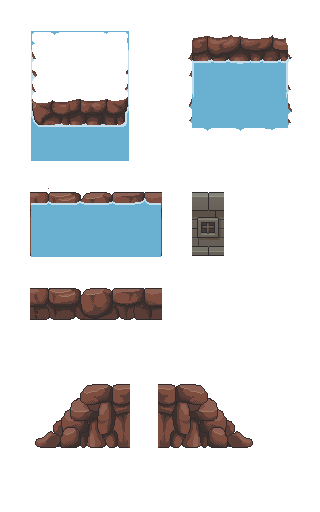
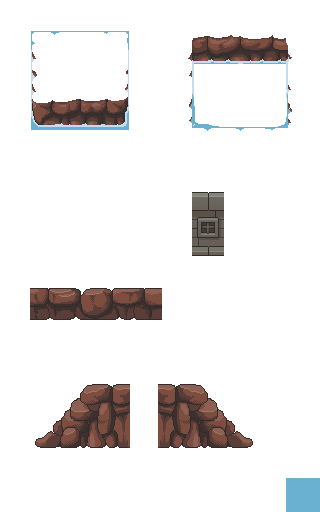
Adiciona reflexo no rio da cidade

diff --git a/lib/maps/main_village/main_village.dart b/lib/maps/main_village/main_village.dart
@@ -8,7 +8,8 @@ import 'package:projeto_gbb_demo/game/objects/daytime_clock.dart';
 import 'package:projeto_gbb_demo/game/objects/plants/tree.dart';
 import 'package:projeto_gbb_demo/game/structs/change_map_transition.dart';
 import 'package:projeto_gbb_demo/maps/main_village/main_village_objects/waterfall.dart';
-import 'package:projeto_gbb_demo/maps/town.dart';
+import 'package:projeto_gbb_demo/maps/garden.dart';
+import 'package:projeto_gbb_demo/parallax/parallax_clouds.dart';
 import 'package:projeto_gbb_demo/players/controller/player_controller.dart';
 
 class MainVillageMap extends StatefulWidget {
@@ -34,6 +35,8 @@ class _MainVillageMapState extends State<MainVillageMap> {
   Widget build(BuildContext context) {
       return BaseMap(
         isOutside: true,
+        backgroundColor: Color(0xff6ab0d0),
+        background: BonfireParallaxBackground(),
         gameController: widget.gameController,
         playerOneController: widget.playerOneController, 
         map: WorldMapByTiled(
@@ -67,7 +70,7 @@ class _MainVillageMapState extends State<MainVillageMap> {
           LocationAction(
             coords: Vector2(1812, -100),
             orientation: TransitionOrientation.horizontal,
-            destination: TownMap(
+            destination: GardenMap(
               gameController: widget.gameController,
               playerOneController: widget.playerOneController,
               initPosition: Vector2(tileSize * 15, tileSize * 28),

diff --git a/lib/game.dart b/lib/game.dart
@@ -4,7 +4,7 @@ import 'package:projeto_gbb_demo/game/items/armor.dart';
 import 'package:projeto_gbb_demo/maps/griffin/griffin_base.dart';
 import 'package:projeto_gbb_demo/maps/main_village/main_village.dart';
 import 'package:projeto_gbb_demo/maps/tavern/tavern.dart';
-import 'package:projeto_gbb_demo/maps/town.dart';
+import 'package:projeto_gbb_demo/maps/garden.dart';
 import 'package:projeto_gbb_demo/players/controller/player_controller.dart';
 import 'package:provider/provider.dart';
 import 'game/enum/character_class.dart';
@@ -46,7 +46,7 @@ class _GameState extends State<Game> {
     LocalGameController gameController = context.read<LocalGameController>();
     PlayerOneController playerOneController = context.read<PlayerOneController>();
 
-    // return TownMap(gameController: gameController, playerOneController: playerOneController);
+    // return GardenMap(gameController: gameController, playerOneController: playerOneController);
     // return TavernMap(
     //   gameController: gameController,
     //   playerOneController: playerOneController,

diff --git a/lib/maps/garden.dart b/lib/maps/garden.dart
@@ -19,19 +19,19 @@ import 'package:projeto_gbb_demo/players/controller/player_controller.dart';
 import 'package:projeto_gbb_demo/players/player_one/base_player.dart';
 import 'package:uuid/uuid.dart';
 
-class TownMap extends StatefulWidget {
+class GardenMap extends StatefulWidget {
   final LocalGameController gameController;
   final PlayerOneController playerOneController;
   final Vector2? initPosition;
   final Direction? initDirection;
 
-  const TownMap({super.key, required this.gameController, required this.playerOneController, this.initPosition, this.initDirection});
+  const GardenMap({super.key, required this.gameController, required this.playerOneController, this.initPosition, this.initDirection});
 
   @override
-  State<TownMap> createState() => _TownMapState();
+  State<GardenMap> createState() => _GardenMapState();
 }
 
-class _TownMapState extends State<TownMap> {
+class _GardenMapState extends State<GardenMap> {
   late final CharacterFaction playerFaction;
   late final SimpleDirectionAnimation playerOneAnimations;
   late final String id;

diff --git a/lib/maps/tavern/tavern.dart b/lib/maps/tavern/tavern.dart
@@ -6,7 +6,7 @@ import 'package:projeto_gbb_demo/game.dart';
 import 'package:projeto_gbb_demo/game/structs/change_map_transition.dart';
 import 'package:projeto_gbb_demo/maps/tavern/kitchen.dart';
 import 'package:projeto_gbb_demo/maps/tavern/living_room.dart';
-import 'package:projeto_gbb_demo/maps/town.dart';
+import 'package:projeto_gbb_demo/maps/garden.dart';
 import 'package:projeto_gbb_demo/players/controller/player_controller.dart';
 
 class TavernMap extends StatefulWidget {
@@ -45,7 +45,7 @@ class _TavernMapState extends State<TavernMap> {
           LocationAction(
             coords: Vector2(1268, 2739),
             orientation: TransitionOrientation.horizontal,
-            destination: TownMap(
+            destination: GardenMap(
               gameController: widget.gameController,
               playerOneController: widget.playerOneController,
               // initPosition: Vector2(tileSize * 19, tileSize * 13),

diff --git a/lib/maps/griffin/griffin_base.dart b/lib/maps/griffin/griffin_base.dart
@@ -63,7 +63,7 @@ class _GriffinBaseState extends State<GriffinBase> {
     //     Navigator.pushReplacement(
     //       context,
     //       PageRouteBuilder(
-    //         pageBuilder: (context, animation1, animation2) => TownMap(
+    //         pageBuilder: (context, animation1, animation2) => GardenMap(
     //           controller: widget.controller,
     //         ),
     //         transitionDuration: Duration(milliseconds: 1),

diff --git a/lib/game/objects/plants/tree.dart b/lib/game/objects/plants/tree.dart
@@ -15,8 +15,8 @@ class Tree extends GameDecoration with Attackable {
   @override
   Future<void> onLoad() async {
     add(RectangleHitbox(
-      size: Vector2(64, 128),
-      position: Vector2(148, 440),
+      size: Vector2(64, 64),
+      position: Vector2(148, 504),
     ));
     return super.onLoad();
   }
